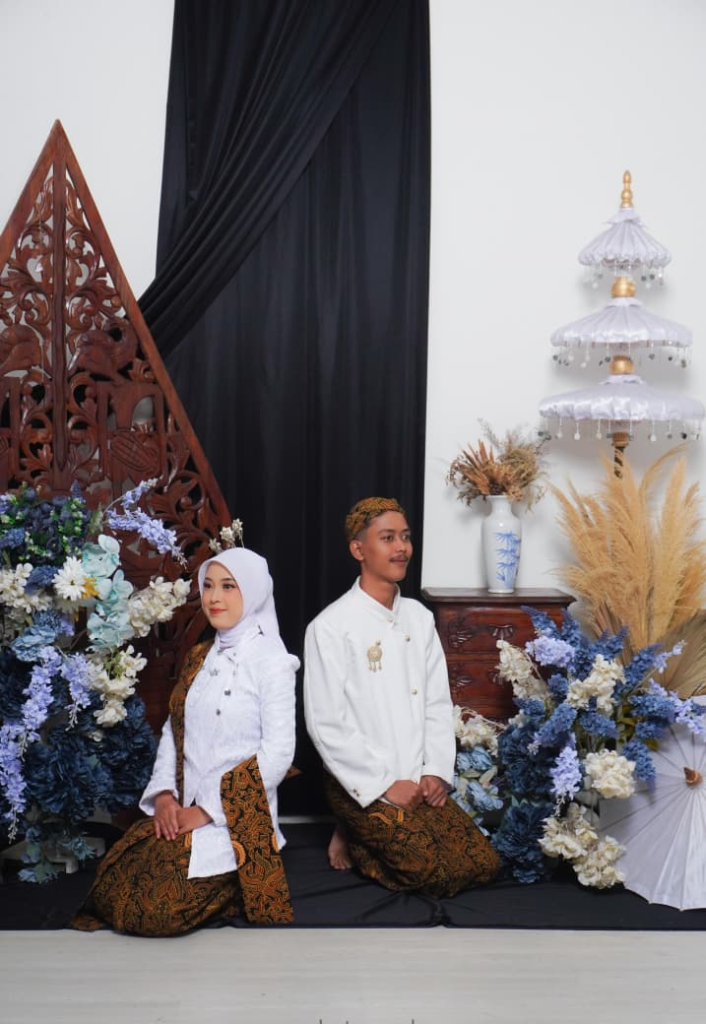
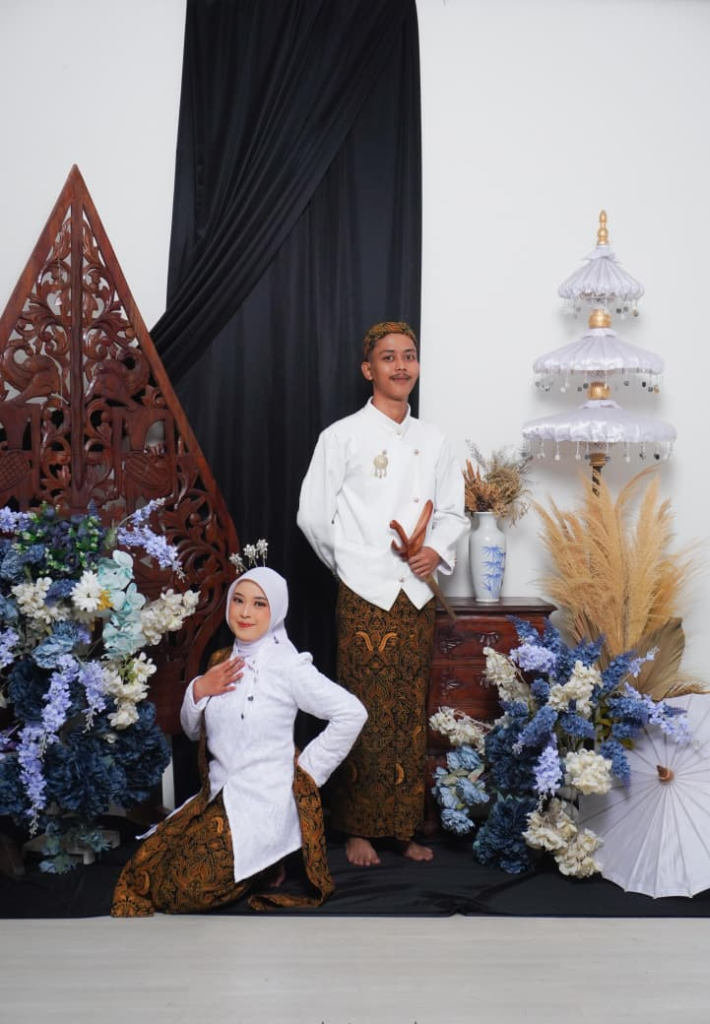
fix: swap gallery photos 2 and 3 and add cache buster v2

diff --git a/src/config/wedding.ts b/src/config/wedding.ts
@@ -129,32 +129,32 @@ export const weddingConfig: WeddingConfig = {
     subtitle: "Momen-momen indah perjalanan kami menuju hari bahagia",
     images: [
       {
-        url: "/images/gallery-01.jpg",
+        url: "/images/gallery-01.jpg?v=2",
         alt: "Prewedding Agsal & Fanny 1",
         caption: "A New Journey Begins",
       },
       {
-        url: "/images/gallery-02.jpg",
+        url: "/images/gallery-02.jpg?v=2",
         alt: "Prewedding Agsal & Fanny 2",
         caption: "Bound by Love",
       },
       {
-        url: "/images/gallery-03.jpg",
+        url: "/images/gallery-03.jpg?v=2",
         alt: "Prewedding Agsal & Fanny 3",
         caption: "Together Forever",
       },
       {
-        url: "/images/gallery-04.jpg",
+        url: "/images/gallery-04.jpg?v=2",
         alt: "Prewedding Agsal & Fanny 4",
         caption: "Warm Embrace",
       },
       {
-        url: "/images/gallery-05.jpg",
+        url: "/images/gallery-05.jpg?v=2",
         alt: "Prewedding Agsal & Fanny 5",
         caption: "Cherished Moments",
       },
       {
-        url: "/images/gallery-06.jpg",
+        url: "/images/gallery-06.jpg?v=2",
         alt: "Prewedding Agsal & Fanny 6",
         caption: "Eternal Promise",
       },
